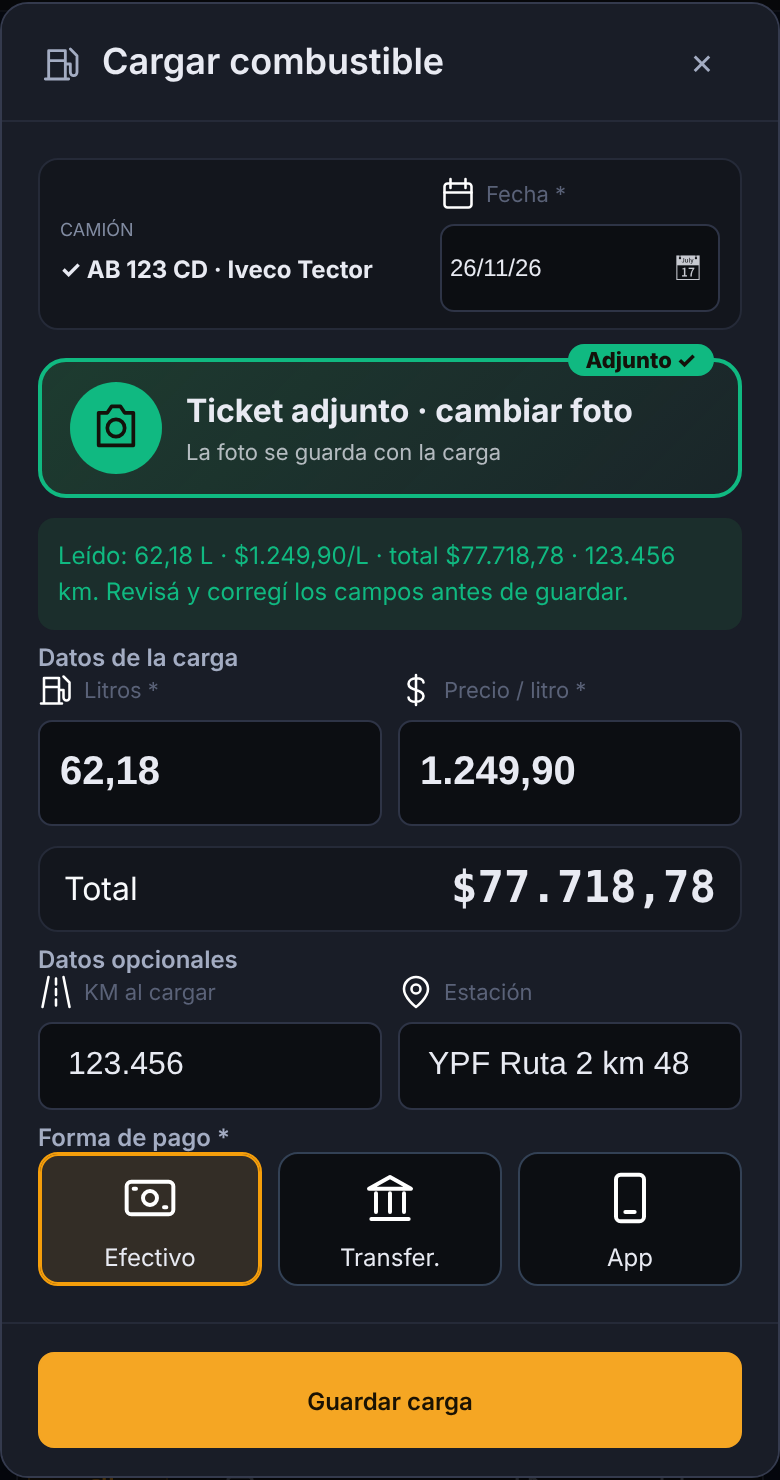
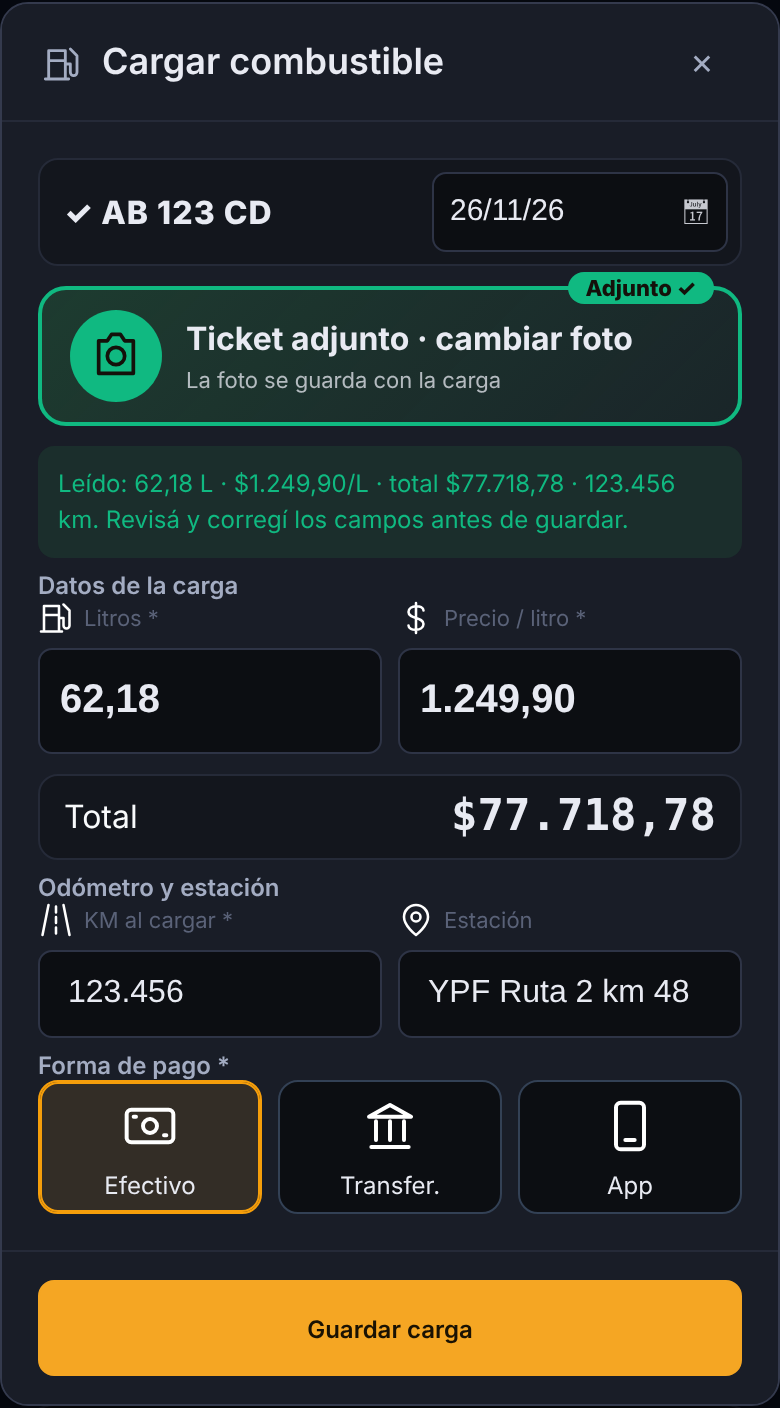
Combustible: dominio y fecha en una fila, km obligatorio y campo faltante remarcado
- La cabecera del modal muestra sólo el dominio del camión y la fecha en la
  misma fila, más compacta.
- El kilometraje pasa a ser obligatorio.
- Al tocar Guardar carga, el campo que falta (ticket, fecha, litros, precio,
  km, medio de pago o app) queda remarcado en rojo y se trae a la vista.

Claude-Session: https://claude.ai/code/session_01DEtCTe8TCLyC7FV8kvFcsv

diff --git a/sigma.js b/sigma.js
@@ -306,7 +306,7 @@ function openFuelModal() {
   _actualizarEstadoConexion();
   if (!_truckActual?.truck_id) { toast('No hay un camión activo para esta jornada', 'error'); return; }
   const info = document.getElementById('cb-camion-info');
-  if (info) info.textContent = `${_truckActual.plate || '—'} · ${_truckActual.brand || ''} ${_truckActual.model || ''}`;
+  if (info) info.textContent = _truckActual.plate || '—'; // sólo el dominio: la fila con la fecha queda compacta
   const fecha = document.getElementById('cb-fecha');
   if (fecha) fecha.value = new Date().toISOString().slice(0, 10);
   ['cb-litros','cb-precio','cb-km','cb-estacion'].forEach(id => { const el = document.getElementById(id); if (el) el.value = ''; });
@@ -321,6 +321,7 @@ function openFuelModal() {
   _fuelTicketEstado();
   const ticketInput = document.getElementById('cb-ticket-input'); if (ticketInput) ticketInput.value = '';
   _modalError('cb-error', '');
+  _fuelMarcar(null);
   openModal('modal-combustible');
 }
 async function openPlanModal() {
@@ -4655,6 +4656,22 @@ function _actualizarEstadoConexion() {
   _fuelTicketEstado();
 }
 
+// Remarca el campo que falta (borde rojo) y lo trae a la vista; null limpia todas las marcas.
+function _fuelMarcar(id) {
+  document.querySelectorAll('#modal-combustible .is-missing').forEach(el => { el.classList.remove('is-missing'); el.removeAttribute('aria-invalid'); });
+  if (!id) return;
+  const el = id === 'cb-pay' ? document.querySelector('#modal-combustible .fuel-pay') : document.getElementById(id);
+  if (!el) return;
+  const box = el.closest?.('.fuel-field, .fuel-date') || el;
+  box.classList?.add('is-missing');
+  if (el.setAttribute) el.setAttribute('aria-invalid', 'true');
+  try { box.scrollIntoView?.({ block: 'center', behavior: 'smooth' }); } catch (e) { /* no crítico */ }
+  if (el.tagName === 'INPUT' && el.type !== 'file') { try { el.focus({ preventScroll: true }); } catch (e) { /* no crítico */ } }
+}
+// Al corregir un campo marcado, se le saca la marca.
+document.addEventListener('input', e => { const f = e.target?.closest?.('#modal-combustible .is-missing'); if (f) { f.classList.remove('is-missing'); e.target.removeAttribute('aria-invalid'); } });
+document.addEventListener('click', e => { const f = e.target?.closest?.('#modal-combustible .fuel-pay.is-missing, #modal-combustible #cb-app-select.is-missing'); if (f) f.classList.remove('is-missing'); });
+
 // Muestra si el ticket ya está adjunto. El ticket es obligatorio para guardar la carga.
 function _fuelTicketEstado() {
   const btn   = document.getElementById('cb-scan-btn');
@@ -4879,6 +4896,7 @@ async function leerTicketCombustible(input) {
     return;
   }
   window._fuelTicketFile = ticket; // se guarda con la carga (fuel-tickets-v1.js)
+  document.getElementById('cb-scan-btn')?.classList?.remove('is-missing');
   _fuelTicketEstado();
 
   if (!navigator.onLine || !base64) {
@@ -4937,9 +4955,9 @@ async function leerTicketCombustible(input) {
       const patenteActual = (_truckActual?.plate || '').replace(/\s|-/g, '').toUpperCase();
       const info = document.getElementById('cb-camion-info');
       if (patenteActual && patenteDetectada === patenteActual) {
-        if (info) info.textContent = `✓ ${_truckActual.plate} · ${_truckActual.brand || ''} ${_truckActual.model || ''}`.trim();
+        if (info) info.textContent = `✓ ${_truckActual.plate}`;
       } else if (patenteActual && patenteDetectada !== patenteActual) {
-        if (info) info.textContent = `⚠ Ticket: ${d.patente} — Jornada: ${_truckActual.plate}`;
+        if (info) info.textContent = `⚠ ${_truckActual.plate} · ticket ${d.patente}`;
       }
     }
 
@@ -5027,24 +5045,27 @@ async function guardarCombustible() {
   const estacion = document.getElementById('cb-estacion')?.value || null;
   const ticket = window._fuelTicketFile || null;
 
-  if (!ticket)                    { _modalError('cb-error', 'Sacale una foto al ticket: es obligatorio para guardar la carga'); return; }
-  if (!fecha)                     { _modalError('cb-error', 'Seleccioná la fecha'); return; }
-  if (!litros || isNaN(litros))   { _modalError('cb-error', 'Ingresá los litros cargados'); return; }
-  if (litros <= 0)                { _modalError('cb-error', 'Los litros deben ser un valor mayor a 0'); return; }
-  if (litros > 5000)              { _modalError('cb-error', 'Los litros ingresados parecen incorrectos (máx. 5000)'); return; }
-  if (!precio || isNaN(precio))   { _modalError('cb-error', 'Ingresá el precio por litro'); return; }
-  if (precio <= 0)                { _modalError('cb-error', 'El precio debe ser mayor a 0'); return; }
-  if (kmTexto && km === null)     { _modalError('cb-error', 'El odómetro tiene que ser un número entero de km'); return; }
-  if (km !== null && km <= 0)     { _modalError('cb-error', 'Los KM deben ser un valor mayor a 0'); return; }
+  // Cada error remarca el campo que falta y lo lleva a la vista.
+  const falta = (campo, msg) => { _modalError('cb-error', msg); _fuelMarcar(campo); };
+  if (!ticket)                    return falta('cb-scan-btn', 'Sacale una foto al ticket: es obligatorio para guardar la carga');
+  if (!fecha)                     return falta('cb-fecha', 'Seleccioná la fecha');
+  if (!litros || isNaN(litros))   return falta('cb-litros', 'Ingresá los litros cargados');
+  if (litros <= 0)                return falta('cb-litros', 'Los litros deben ser un valor mayor a 0');
+  if (litros > 5000)              return falta('cb-litros', 'Los litros ingresados parecen incorrectos (máx. 5000)');
+  if (!precio || isNaN(precio))   return falta('cb-precio', 'Ingresá el precio por litro');
+  if (precio <= 0)                return falta('cb-precio', 'El precio debe ser mayor a 0');
+  if (!kmTexto)                   return falta('cb-km', 'Ingresá el kilometraje del tablero: es obligatorio');
+  if (km === null)                return falta('cb-km', 'El odómetro tiene que ser un número entero de km');
+  if (km <= 0)                    return falta('cb-km', 'Los KM deben ser un valor mayor a 0');
   const odo = N.revisarOdometro(km, _truckActual?.current_km);
-  if (odo.error)                  { _modalError('cb-error', odo.error); return; }
+  if (odo.error)                  return falta('cb-km', odo.error);
   if (odo.aviso && _fuelKmConfirmado !== km) {
     _fuelKmConfirmado = km;
-    _modalError('cb-error', odo.aviso + ' Revisá el tablero: si está bien, tocá Guardar carga otra vez.');
-    return;
+    return falta('cb-km', odo.aviso + ' Revisá el tablero: si está bien, tocá Guardar carga otra vez.');
   }
-  if (!selectedPayMethod)         { _modalError('cb-error', 'Seleccioná el medio de pago'); return; }
-  if (selectedPayMethod === 'app' && !selectedApp) { _modalError('cb-error', 'Seleccioná la app de pago'); return; }
+  if (!selectedPayMethod)         return falta('cb-pay', 'Seleccioná el medio de pago');
+  if (selectedPayMethod === 'app' && !selectedApp) return falta('cb-app-select', 'Seleccioná la app de pago');
+  _fuelMarcar(null);
   _modalError('cb-error', '');
 
   const jornadaCombustible = (_jornadasAbiertasCache || []).find(j =>

diff --git a/test/fuel-compact.test.js b/test/fuel-compact.test.js
@@ -1,10 +1,12 @@
 const test=require('node:test'),assert=require('node:assert/strict'),fs=require('node:fs'),vm=require('node:vm');
 const s=fs.readFileSync('sigma.js','utf8');function fn(n){const p=s.indexOf('function '+n+'(');return (s.slice(p-6,p)==='async '?'async ':'')+s.slice(p,s.indexOf('\n}',p)+2)}
 const AuxFuelNumbers=require('../fuel-numbers-v1.js');
-function context(extra={}){const nodes=new Map();const get=id=>{if(!nodes.has(id))nodes.set(id,{value:'',style:{},setAttribute(){}});return nodes.get(id)};const c=vm.createContext({document:{getElementById:get,querySelectorAll:()=>[],querySelector:()=>null},console:{error(){}},_actualizarEstadoConexion(){},_fuelTicketEstado(){},window:{AuxFuelNumbers},...extra});vm.runInContext("let _fuelBusy='',_fuelCreatedAtDevice=null,_fuelKmConfirmado=null;"+fn('_setFuelBusy')+fn('_fuelTicketArchivo'),c);return {c,get}}
+function context(extra={}){const nodes=new Map();const get=id=>{if(!nodes.has(id))nodes.set(id,{value:'',style:{},setAttribute(){}});return nodes.get(id)};const c=vm.createContext({document:{getElementById:get,querySelectorAll:()=>[],querySelector:()=>null},console:{error(){}},_actualizarEstadoConexion(){},_fuelTicketEstado(){},_fuelMarcar(){},window:{AuxFuelNumbers},...extra});vm.runInContext("let _fuelBusy='',_fuelCreatedAtDevice=null,_fuelKmConfirmado=null;"+fn('_setFuelBusy')+fn('_fuelTicketArchivo'),c);return {c,get}}
 test('unreadable photo releases controls and asks for another ticket photo',async()=>{const {c,get}=context({FileReader:class{readAsDataURL(){this.onerror(Error('bad image'))}}});vm.runInContext(fn('leerTicketCombustible'),c);await c.leerTicketCombustible({files:[{}],value:'photo'});assert.equal(vm.runInContext('_fuelBusy',c),'');assert.match(get('cb-scan-status').textContent,/otra foto al ticket/);assert.equal(c.window._fuelTicketFile,undefined)});
 test('without signal the photo stays attached and the driver types the data',async()=>{const file={name:'t.jpg',type:'image/jpeg',size:1000};const {c,get}=context({navigator:{onLine:false},FileReader:class{readAsDataURL(){this.onerror(Error('no canvas'))}}});c.window.AuxFuelTickets={checkFile:f=>f};vm.runInContext(fn('leerTicketCombustible'),c);await c.leerTicketCombustible({files:[file],value:'photo'});assert.equal(c.window._fuelTicketFile,file);assert.match(get('cb-scan-status').textContent,/Foto del ticket adjunta/)});
 test('save is blocked without the ticket photo',async()=>{let msg='',calls=0;const {c,get}=context({_truckActual:{truck_id:1},selectedPayMethod:'efectivo',selectedApp:'',_modalError:(_,v)=>msg=v,_resolverLogIdLocal:()=>{calls++}});for(const [id,v] of Object.entries({'cb-litros':'80','cb-precio':'1250','cb-fecha':'2026-09-14'}))get(id).value=v;vm.runInContext(fn('guardarCombustible'),c);await c.guardarCombustible();assert.equal(calls,0);assert.match(msg,/foto al ticket/)});
-test('save failure releases busy state and blocks duplicate submissions',async()=>{let reject,calls=0,msg='';const {c,get}=context({_truckActual:{truck_id:1},_jornadasAbiertasCache:[],_jornadaActivaLocal:null,selectedPayMethod:'efectivo',selectedApp:'',_modalError:(_,v)=>msg=v,_resolverLogIdLocal:()=>{calls++;return new Promise((_,r)=>reject=r)}});c.window._fuelTicketFile={name:'t.jpg',type:'image/jpeg'};for(const [id,v] of Object.entries({'cb-litros':'80','cb-precio':'1250','cb-fecha':'2026-09-14'}))get(id).value=v;vm.runInContext(fn('guardarCombustible'),c);const p=c.guardarCombustible();await c.guardarCombustible();assert.equal(calls,1);assert.equal(vm.runInContext('_fuelBusy',c),'save');reject(Error('network'));await p;assert.equal(vm.runInContext('_fuelBusy',c),'');assert.match(msg,/reintentá/)});
+test('save failure releases busy state and blocks duplicate submissions',async()=>{let reject,calls=0,msg='';const {c,get}=context({_truckActual:{truck_id:1},_jornadasAbiertasCache:[],_jornadaActivaLocal:null,selectedPayMethod:'efectivo',selectedApp:'',_modalError:(_,v)=>msg=v,_resolverLogIdLocal:()=>{calls++;return new Promise((_,r)=>reject=r)}});c.window._fuelTicketFile={name:'t.jpg',type:'image/jpeg'};for(const [id,v] of Object.entries({'cb-litros':'80','cb-precio':'1250','cb-fecha':'2026-09-14','cb-km':'120000'}))get(id).value=v;vm.runInContext(fn('guardarCombustible'),c);const p=c.guardarCombustible();await c.guardarCombustible();assert.equal(calls,1);assert.equal(vm.runInContext('_fuelBusy',c),'save');reject(Error('network'));await p;assert.equal(vm.runInContext('_fuelBusy',c),'');assert.match(msg,/reintentá/)});
 test('litros y precio con coma y punto se guardan bien, y el km dudoso pide confirmar',async()=>{let msg='',sent=null,attached=null;const {c,get}=context({navigator:{onLine:true},_truckActual:{truck_id:1,current_km:123000},_jornadasAbiertasCache:[{truck_id:1,log_id:7}],_jornadaActivaLocal:null,selectedPayMethod:'efectivo',selectedApp:'',_modalError:(_,v)=>msg=v,_resolverLogIdLocal:async v=>v,_logIdEsTemporal:()=>false,registrarCombustible:async d=>{sent=d;return {ok:true,data:{fuel_id:9}}},AuxFuelTickets:{attach:async(id,f)=>{attached=[id,f]}},operationFeedback(){},closeModal(){},cargarScreenCamion(){}});const ticket={name:'t.jpg',type:'image/jpeg'};c.window._fuelTicketFile=ticket;for(const [id,v] of Object.entries({'cb-litros':'62,180','cb-precio':'1.249,90','cb-fecha':'2026-11-25','cb-km':'123.456'}))get(id).value=v;vm.runInContext(fn('guardarCombustible'),c);await c.guardarCombustible();assert.equal(sent.liters,62.18);assert.equal(sent.price_per_liter,1249.9);assert.equal(sent.km_at_load,123456);assert.deepEqual(attached,[9,ticket]);
   sent=null;c.selectedPayMethod='efectivo';c.window._fuelTicketFile=ticket;get('cb-km').value='123';await c.guardarCombustible();assert.equal(sent,null);assert.match(msg,/Quisiste poner 123\.000 km/);await c.guardarCombustible();assert.equal(sent.km_at_load,123,'segundo toque confirma')});
+test('sin kilometraje no guarda y remarca el campo',async()=>{let msg='',marcado=null,calls=0;const {c,get}=context({_truckActual:{truck_id:1},selectedPayMethod:'efectivo',selectedApp:'',_modalError:(_,v)=>msg=v,_fuelMarcar:id=>marcado=id,_resolverLogIdLocal:()=>{calls++}});c.window._fuelTicketFile={name:'t.jpg',type:'image/jpeg'};for(const [id,v] of Object.entries({'cb-litros':'80','cb-precio':'1250','cb-fecha':'2026-11-25'}))get(id).value=v;vm.runInContext(fn('guardarCombustible'),c);await c.guardarCombustible();assert.equal(calls,0);assert.equal(marcado,'cb-km');assert.match(msg,/kilometraje/)});
+test('el modal muestra sólo el dominio y la fecha en la misma fila',()=>{const html=fs.readFileSync('Index.html','utf8'),css=fs.readFileSync('driver-fit-v1.css','utf8');assert.match(html,/<div class="fuel-context"><strong id="cb-camion-info"[^>]*>—<\/strong><label class="fuel-date" for="cb-fecha">/);assert.match(html,/KM al cargar \*/);assert.match(s,/info\.textContent = _truckActual\.plate \|\| '—';/);assert.match(css,/#modal-combustible \.fuel-context \{ display: flex;/);assert.match(css,/\.is-missing input/)});

diff --git a/Index.html b/Index.html
@@ -187,15 +187,15 @@
  <div class="modal-box fuel-box">
   <div class="modal-head"><span class="modal-head-title"><svg class="fuel-icon" viewBox="0 0 24 24" fill="none" stroke="currentColor" stroke-width="1.7" stroke-linecap="round" stroke-linejoin="round" aria-hidden="true"><path d="M4 21V4h10v17M2 21h14M4 10h10m3-7 4 4v10a2 2 0 0 1-4 0v-5h-3"/></svg> Cargar combustible</span><button class="modal-close" aria-label="Cerrar" onclick="closeModal('modal-combustible')">×</button></div>
   <div class="modal-body fuel-body">
-   <div class="fuel-context"><div><small>CAMIÓN</small><strong id="cb-camion-info">—</strong></div><label class="fuel-field" for="cb-fecha"><span><svg class="fuel-icon" viewBox="0 0 24 24" fill="none" stroke="currentColor" stroke-width="1.7" stroke-linecap="round" stroke-linejoin="round" aria-hidden="true"><rect x="3" y="5" width="18" height="16" rx="2"/><path d="M7 2v6m10-6v6M3 11h18"/></svg> Fecha *</span><input class="form-input" id="cb-fecha" placeholder="" type="date"></label></div>
+   <div class="fuel-context"><strong id="cb-camion-info" title="Camión de la jornada">—</strong><label class="fuel-date" for="cb-fecha"><span class="sr-only">Fecha de la carga</span><input class="form-input" id="cb-fecha" type="date" aria-label="Fecha de la carga"></label></div>
    <input type="file" id="cb-ticket-input" accept="image/*" capture="environment" hidden onchange="leerTicketCombustible(this)">
    <button id="cb-scan-btn" class="fuel-scan" onclick="document.getElementById('cb-ticket-input').click()"><span aria-hidden="true"><svg class="fuel-icon" viewBox="0 0 24 24" fill="none" stroke="currentColor" stroke-width="1.7" stroke-linecap="round" stroke-linejoin="round" aria-hidden="true"><path d="M8 5 10 2h4l2 3h4v15H4V5Z"/><circle cx="12" cy="12" r="4"/></svg></span><span><strong id="cb-scan-label">Escanear ticket</strong><small id="cb-scan-hint">Sin ticket no se puede guardar · leemos litros, precio y km</small></span></button>
    <div id="cb-scan-status" class="fuel-status" role="status" aria-live="polite" style="display:none"></div>
    <h3 class="fuel-section">Datos de la carga</h3>
    <div class="fuel-grid fuel-numbers"><label class="fuel-field" for="cb-litros"><span><svg class="fuel-icon" viewBox="0 0 24 24" fill="none" stroke="currentColor" stroke-width="1.7" stroke-linecap="round" stroke-linejoin="round" aria-hidden="true"><path d="M4 21V4h10v17M2 21h14M4 10h10m3-7 4 4v10a2 2 0 0 1-4 0v-5h-3"/></svg> Litros *</span><input class="form-input" id="cb-litros" placeholder="Ej: 80,5" type="text" inputmode="decimal" oninput="sanitizeFuelDecimal(this);calcCombTotal()"></label><label class="fuel-field" for="cb-precio"><span><svg class="fuel-icon" viewBox="0 0 24 24" fill="none" stroke="currentColor" stroke-width="1.7" stroke-linecap="round" stroke-linejoin="round" aria-hidden="true"><path d="M12 2v20m5-15c0-4-10-4-10 1s10 3 10 8-10 5-10 1"/></svg> Precio / litro *</span><input class="form-input" id="cb-precio" placeholder="Ej: 1.250,90" type="text" inputmode="decimal" oninput="sanitizeFuelDecimal(this);calcCombTotal()"></label></div>
    <div class="fuel-total"><span>Total</span><strong id="cb-total" aria-live="polite">$0</strong></div>
-   <h3 class="fuel-section">Datos opcionales</h3>
-   <div class="fuel-grid"><label class="fuel-field" for="cb-km"><span><svg class="fuel-icon" viewBox="0 0 24 24" fill="none" stroke="currentColor" stroke-width="1.7" stroke-linecap="round" stroke-linejoin="round" aria-hidden="true"><path d="M7 2 3 22M17 2l4 20M12 3v4m0 3v4m0 3v4"/></svg> KM al cargar</span><input class="form-input" id="cb-km" placeholder="Ej: 180240" type="text" inputmode="numeric" oninput="sanitizeInt(this)"></label><label class="fuel-field" for="cb-estacion"><span><svg class="fuel-icon" viewBox="0 0 24 24" fill="none" stroke="currentColor" stroke-width="1.7" stroke-linecap="round" stroke-linejoin="round" aria-hidden="true"><path d="M20 10c0 6-8 12-8 12S4 16 4 10a8 8 0 1 1 16 0Z"/><circle cx="12" cy="10" r="3"/></svg> Estación</span><input class="form-input" id="cb-estacion" placeholder="Ej: YPF Ruta 2" type="text" maxlength="100"></label></div>
+   <h3 class="fuel-section">Odómetro y estación</h3>
+   <div class="fuel-grid"><label class="fuel-field" for="cb-km"><span><svg class="fuel-icon" viewBox="0 0 24 24" fill="none" stroke="currentColor" stroke-width="1.7" stroke-linecap="round" stroke-linejoin="round" aria-hidden="true"><path d="M7 2 3 22M17 2l4 20M12 3v4m0 3v4m0 3v4"/></svg> KM al cargar *</span><input class="form-input" id="cb-km" placeholder="Ej: 180240" type="text" inputmode="numeric" oninput="sanitizeInt(this)"></label><label class="fuel-field" for="cb-estacion"><span><svg class="fuel-icon" viewBox="0 0 24 24" fill="none" stroke="currentColor" stroke-width="1.7" stroke-linecap="round" stroke-linejoin="round" aria-hidden="true"><path d="M20 10c0 6-8 12-8 12S4 16 4 10a8 8 0 1 1 16 0Z"/><circle cx="12" cy="10" r="3"/></svg> Estación</span><input class="form-input" id="cb-estacion" placeholder="Ej: YPF Ruta 2" type="text" maxlength="100"></label></div>
    <h3 class="fuel-section">Forma de pago *</h3>
    <div class="fuel-pay" role="group" aria-label="Forma de pago"><button id="cb-efectivo" aria-pressed="false" onclick="selectPayBtn('cb','efectivo')"><span aria-hidden="true"><svg class="fuel-icon" viewBox="0 0 24 24" fill="none" stroke="currentColor" stroke-width="1.7" stroke-linecap="round" stroke-linejoin="round" aria-hidden="true"><rect x="2" y="5" width="20" height="14" rx="2"/><circle cx="12" cy="12" r="3"/><path d="M5 8h1M18 16h1"/></svg></span>Efectivo</button><button id="cb-transferencia" aria-pressed="false" onclick="selectPayBtn('cb','transferencia')"><span aria-hidden="true"><svg class="fuel-icon" viewBox="0 0 24 24" fill="none" stroke="currentColor" stroke-width="1.7" stroke-linecap="round" stroke-linejoin="round" aria-hidden="true"><path d="m3 8 9-5 9 5H3Zm1 13h16M6 10v8m6-8v8m6-8v8"/></svg></span>Transfer.</button><button id="cb-app" aria-pressed="false" onclick="selectPayBtn('cb','app')"><span aria-hidden="true"><svg class="fuel-icon" viewBox="0 0 24 24" fill="none" stroke="currentColor" stroke-width="1.7" stroke-linecap="round" stroke-linejoin="round" aria-hidden="true"><rect x="6" y="2" width="12" height="20" rx="2"/><path d="M10 18h4"/></svg></span>App</button></div>
    <div id="cb-app-select" style="display:none"><h3 class="fuel-section">¿Qué app usaste?</h3><div class="fuel-apps"><button class="btn btn-ghost app-btn2" aria-pressed="false" onclick="selectAppBtn(this,'Shell Flota')">Shell Flota</button><button class="btn btn-ghost app-btn2" aria-pressed="false" onclick="selectAppBtn(this,'YPF Ruta')">YPF Ruta</button><button class="btn btn-ghost app-btn2" aria-pressed="false" onclick="selectAppBtn(this,'Axion')">Axion</button><button class="btn btn-ghost app-btn2" aria-pressed="false" onclick="selectAppBtn(this,'Otra')">Otra</button></div></div>

diff --git a/driver-fit-v1.css b/driver-fit-v1.css
@@ -175,3 +175,20 @@
 #modal-combustible .fuel-scan.is-attached { border-color: var(--green); background: linear-gradient(135deg, rgba(52,199,89,.18), rgba(52,199,89,.05)); }
 #modal-combustible .fuel-scan.is-attached > span:first-child { background: var(--green); }
 #modal-combustible .fuel-scan.is-attached::after { content: "Adjunto ✓"; background: var(--green); }
+
+/* ---------- Combustible: dominio y fecha en una sola fila; campo que falta remarcado ---------- */
+#modal-combustible .fuel-context { display: flex; align-items: center; justify-content: space-between; gap: 10px; padding: 6px 6px 6px 12px; margin-bottom: 10px; min-height: 0; }
+#modal-combustible .fuel-context strong { margin: 0; font-size: 16px; font-weight: 800; letter-spacing: .5px; white-space: nowrap; overflow: hidden; text-overflow: ellipsis; color: var(--text); }
+#modal-combustible .fuel-date { flex: none; margin: 0; }
+#modal-combustible .fuel-date input { width: 148px; min-height: 40px; padding: 6px 8px; font-size: 15px; }
+#modal-combustible .sr-only { position: absolute; width: 1px; height: 1px; padding: 0; margin: -1px; overflow: hidden; clip: rect(0 0 0 0); white-space: nowrap; border: 0; }
+#modal-combustible .is-missing > span { color: var(--red); }
+#modal-combustible .is-missing input,
+#modal-combustible .fuel-pay.is-missing button,
+#modal-combustible #cb-app-select.is-missing button { border-color: var(--red) !important; box-shadow: 0 0 0 2px rgba(255,59,48,.35); }
+#modal-combustible .fuel-scan.is-missing { border-color: var(--red); box-shadow: 0 0 0 2px rgba(255,59,48,.35); }
+#modal-combustible .fuel-scan.is-missing::after { content: "Falta el ticket"; background: var(--red); color: #fff; }
+@media (prefers-reduced-motion: no-preference) {
+  #modal-combustible .is-missing { animation: fuel-falta .32s ease-in-out 1; }
+  @keyframes fuel-falta { 25% { transform: translateX(-4px); } 75% { transform: translateX(4px); } }
+}
